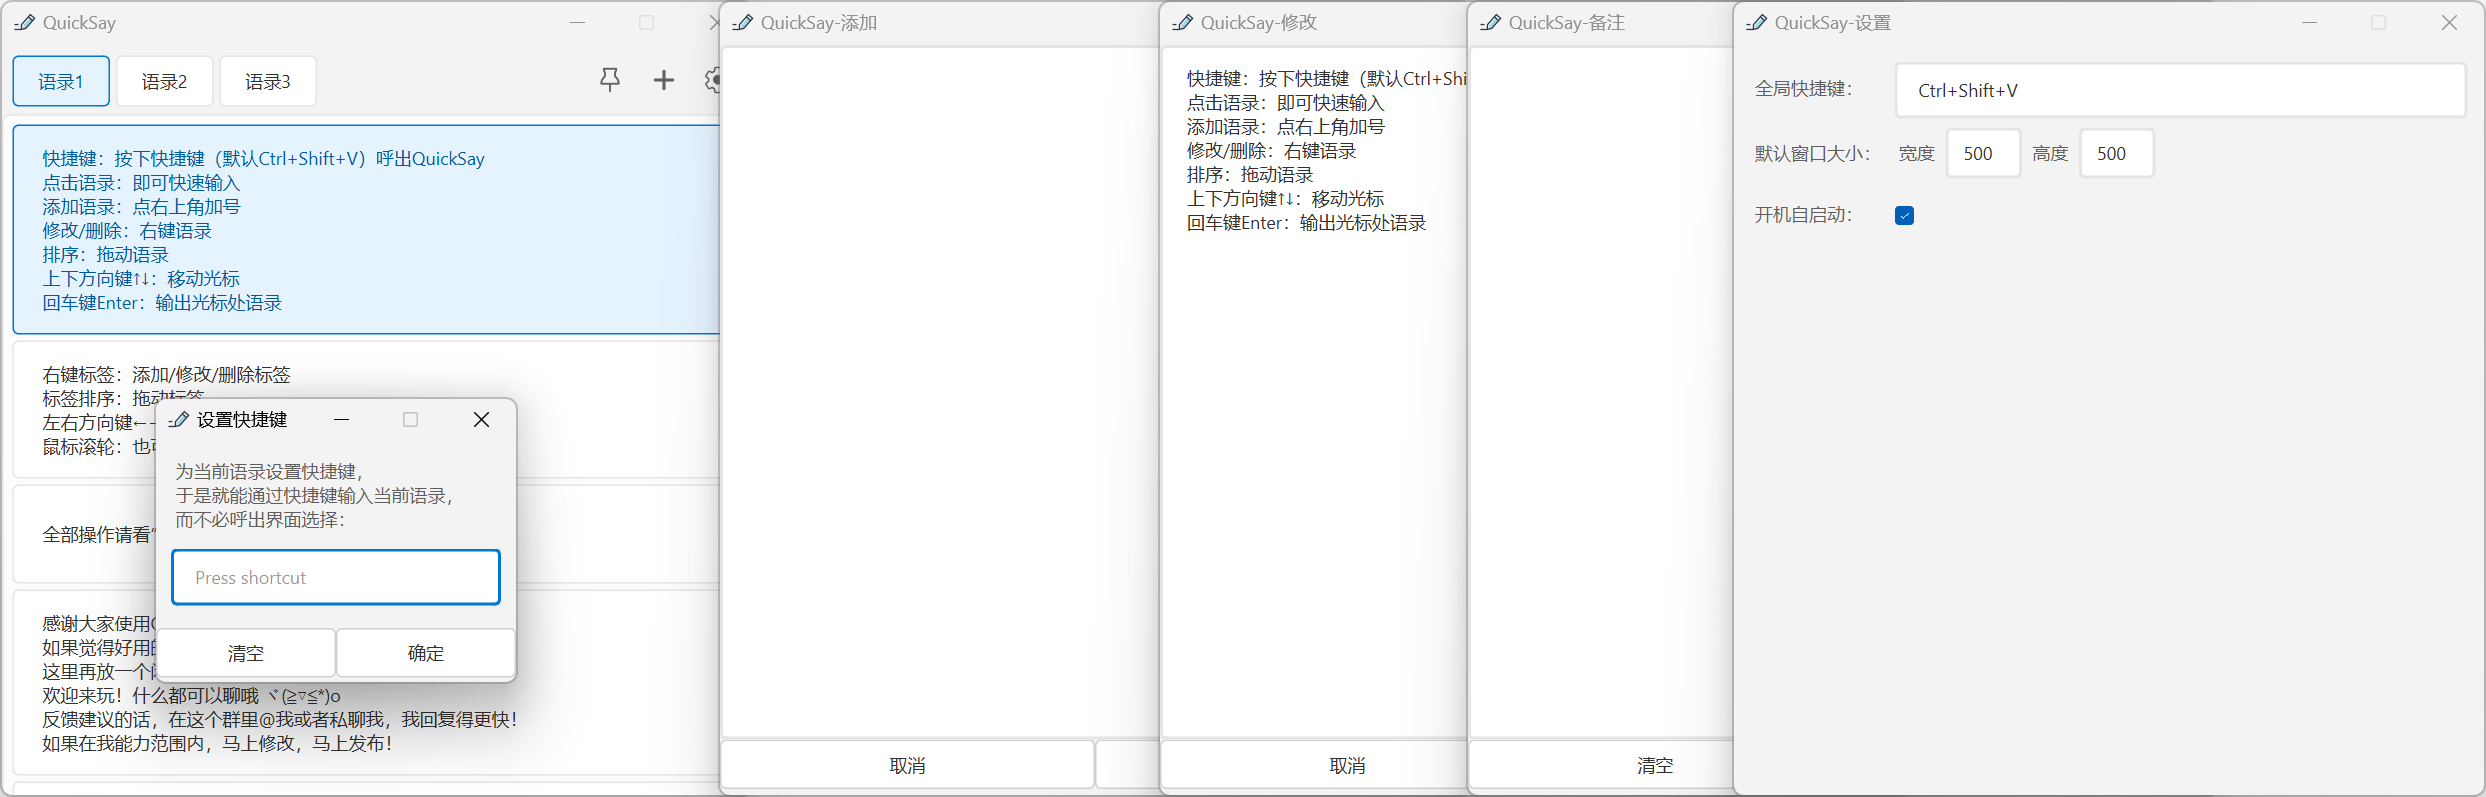
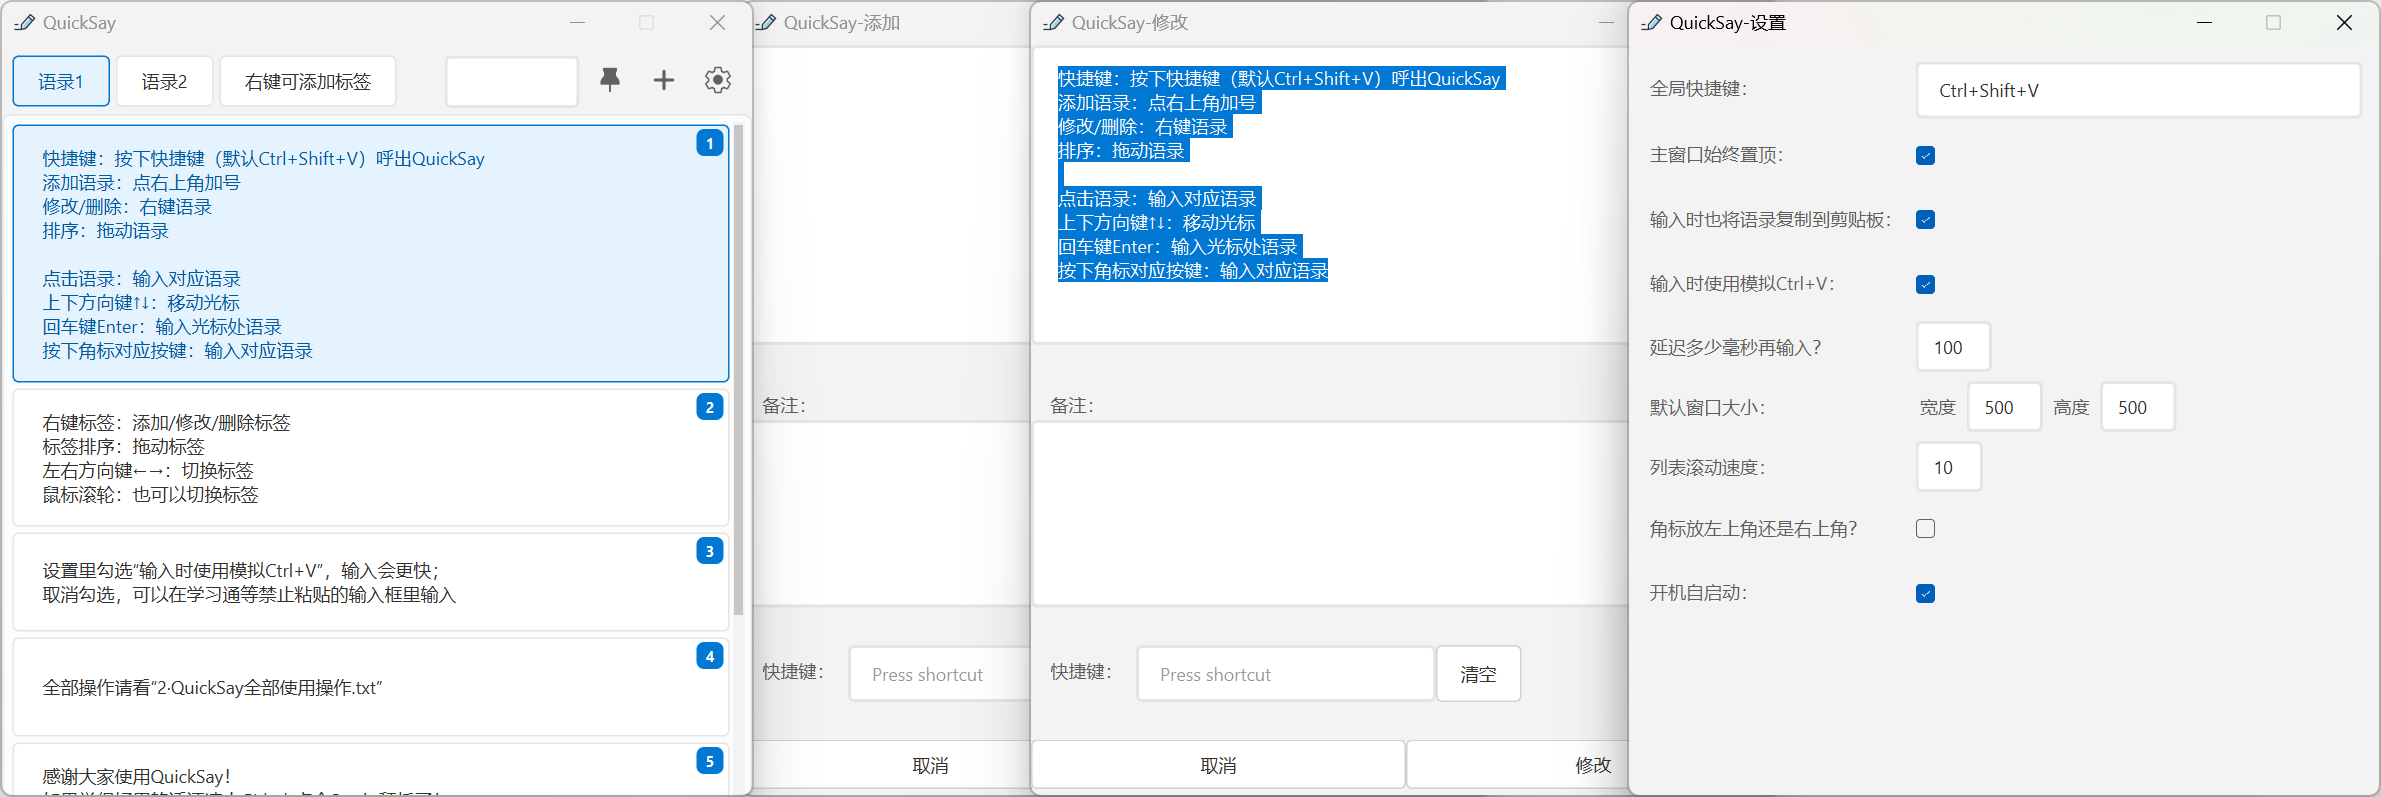
Add files via upload

diff --git a/README.md b/README.md
@@ -4,37 +4,38 @@
 
 
 ## 如何下载和安装
-（因为考虑到很多GitHub新手不会下载软件，所以就把这部分放在最上面了。~~毕竟曾经我也是新手之一呀~~）  
 #### 方法一：
-看到右边的发行版（Releases）了吗？点它→，于是进入项目发布页，再点击QuickSay_v1.3.1.7z，于是开始下载  
+看到右边的发行版（Releases）了吗？点它→，于是进入项目发布页，再点击QuickSay_v1.4.0.7z，于是开始下载  
 下载完成后，将得到的文件解压，于是得到  
 ```
 QuickSay文件夹
 1·如何安装或更新QuickSay.txt
 2·QuickSay全部使用操作.txt
 ```
-直接把 **QuickSay文件夹** 放到随便什么路径下（有中文空格都行）（但是不要放到Program Files之类的文件夹里面。这种文件夹好麻烦的改个json文件都需要管理员权限），然后双击打开里面的exe文件就可以正常运行软件了。  
-那两个txt文件懒得看的话可以直接删除，没关系的（虽然还是建议看一下...）  
+直接把 **QuickSay文件夹** 放到随便什么文件夹里，然后双击QuickSay.exe就行了。  
+文件夹的话有中文空格都行，但是不要放到Program Files之类的文件夹里。这种文件夹好麻烦的改个文件都需要管理员权限...  
+两个txt文件懒得看的话可以直接删除。  
 #### 方法二：
-直接点进这个蓝奏云链接：https://wwlt.lanzoum.com/b014wmlo5g 密码:star  
-然后点击QuickSay_v1.3.1.7z，再点下载按钮，于是开始下载  
+点进这个蓝奏云链接：https://wwlt.lanzoum.com/b014wmlo5g 密码:star  
+然后点击QuickSay_v1.4.0.7z，再点下载按钮，于是开始下载  
 接下来的步骤同上  
 
 
 ## 如何更新
-直接把 QuickSay文件夹 **替换**掉 电脑里原有的QuickSay文件夹 就行了。  
+直接用 QuickSay文件夹 **替换**掉 电脑里原有的QuickSay文件夹 就行了。  
 
 
-## 软件功能
-您可以在QuickSay里添加语录，并在需要用到时按下快捷键呼出QuickSay，点击语录，于是快速输入( •̀ ω •́ )✧  
+## QuickSay是用来干什么的？
+不知道你会不会把常用语录保存在一个txt文件里，并在需要用到时打开这个txt文件复制粘贴。  
+那么你就可以把常用语录保存在这个软件里，并使用标签分类。  
+输入语录可以按下快捷键呼出QuickSay后，通过鼠标点击、回车、角标对应按键输入；或者自定义语录快捷键输入。  
 
 QuickSay的优势：  
-- UI好看。简洁、现代、美观  
-- 功能全面，日常使用需求基本都能满足，使用体验好  
-- 支持Emoji、颜文字等文本的存储与使用  
-- 免费、开源、无广、无需登录、无需联网，未来我也不打算加上这些内容  
-- 开发者持续维护，愿意为它付出时间。再加上我比较细心，所以我可以很自信地说bug基本没有  
-- 不知道为什么网络上都找不到好用免费现代美观的电脑快捷语录软件，所以要是有人想找个电脑快捷语录的话那基本都会找到我这里来。我靠这不就等于垄断了吗？我真幸运  
+- 可以在学习通等禁止粘贴的输入框里输入！！  
+- UI好看。简洁、现代、美观、高效  
+- 功能全面，比如支持按下角标对应按键输入、自定义语录快捷键输入、连续输入、搜索框搜索、备注等功能  
+- 免费、开源、无广、无需联网，未来我也不打算加上这些内容  
+- 开发者持续维护，愿意为它付出时间。再加上我比较细心，所以我可以很自信地说代码质量非常高，bug基本没有  
 - 因为是用Qt开发的，所以体积小（15MB）、运行快  
 - 适合Qt新手自学。代码注释真的超级详细，代码内容也比较简单，完全不用像学算法那样理解半天都理解不了这段代码是干什么的。如果把这些代码给曾经的我看的话，估计用不了一周我就能自学成才，并且发布软件了  
 
@@ -44,35 +45,34 @@ QuickSay的优势：
 
 ## 基本使用
 快捷键：按下快捷键（默认Ctrl+Shift+V）呼出QuickSay  
-点击语录：即可快速输入  
 添加语录：点右上角加号  
 修改/删除：右键语录  
 排序：拖动语录  
+
+点击语录：输入对应语录  
 上下方向键↑↓：移动光标  
-回车键Enter：输出光标处语录  
+回车键Enter：输入光标处语录  
+按下角标对应按键：输入对应语录  
 
 右键标签：添加/修改/删除标签  
 标签排序：拖动标签  
 左右方向键←→：切换标签  
 鼠标滚轮：也可以切换标签  
 
-这里再放几个高级使用：  
-右键语录-快捷键：设置语录快捷键，于是就能通过快捷键输入当前语录，而不必呼出界面选择  
-右键语录-备注：给当前语录备注  
-图钉按钮：开启/关闭窗口置顶、失去焦点不关闭  
-
 全部操作请看“2·QuickSay全部使用操作.txt”  
 
 
 ## 常见使用问题
-- 不要直接在解压软件里运行QuickSay.exe呀...也就是说不要先运行QuickSay.exe，然后把整个文件夹复制到其他地方，再双击运行QuickSay.exe，于是你电脑里就运行了两个QuickSay  
-  × 解决方法：确保你电脑里只有一个QuickSay.exe。然后方法一是右键托盘图标把两个QuickSay都退出，再打开唯一的那个QuickSay.exe；方法二是重启。重启能完全解决这个问题。遇事不决重启解决  
-- 如果你在添加/修改/删除语录，或者改变语录顺序后，退出并重新打开QuickSay.exe，发现语录根本没被修改，那这必然是因为你把QuickSay安装在Program Files之类的文件夹里面  
-  × 解决方法：把QuickSay安装在其他文件夹里  
-- 这是用来快捷输入的软件呀（笑哭），别没有把鼠标光标放到可以输入文字的地方就呼出、点击语录，于是输入失败，于是就来找我反馈了  
-- 不钉住窗口时，把焦点放到可以输入文字的地方后，点击任务栏的QuickSay图标让它置顶，此时你的焦点就不在那个可以输入文字的地方了，也就是说此时你点击语录会输入失败。唔这个问题我在之后的版本试着解决一下  
+- 不要直接在解压软件里运行QuickSay.exe  
+- 不要先运行QuickSay.exe，同时把整个文件夹复制到其他地方，再运行QuickSay.exe。否则你电脑里就运行了两个QuickSay.exe  
+× 解决方法：确保你电脑里只有一个QuickSay.exe。然后方法一是右键托盘把两个QuickSay都退出，再打开唯一的那个QuickSay.exe；方法二是重启。重启能完全解决这个问题。遇事不决重启解决  
+- 修改语录或设置后，退出重进QuickSay，发现语录根本没被修改，那必然是因为你把QuickSay安装在Program Files之类的文件夹里  
+× 解决方法：把QuickSay安装在其他文件夹里  
 - 显示有个bug，比如输入“ᐠ( ᑒ )ᐟ”，那么显示会出问题。但是输出的话还是能正常输出的。等我了解一下这个bug的原因哈，如果在我能力范围内，那么这也是要修复的  
-- 嘶，发现有一个问题就是如果电脑后台开着吃性能的应用，比如原神，于是你电脑就一卡一卡了，于是QuickSay就不能在微信电脑版的输入框里输入了，因为延时50毫秒完全不够，150毫秒都不够。所以此时只能麻烦大家手动敲一个Ctrl+V了  
+- QuickSay会在以下情况输入失败：  
+1.大部分游戏内输入框  
+2.当电脑开着吃性能的应用，卡顿十分明显时，微信输入框  
+× 解决方法：勾选设置“输入时也将语录复制到剪贴板”，自己手动敲一个Ctrl+V  
 
 
 ## 许可证
@@ -80,31 +80,26 @@ QuickSay的优势：
 
 
 ## 如何下载代码并使用
-1. 下载代码应该不用我多说。毕竟按钮在最上面最明显的地方。没错就是那个绿色按钮  
+1. 下载代码应该不用我多说。按钮就是最上面最明显的那个绿色按钮  
 2. 然后你需要去下载个QT。教程推荐这篇文章：https://blog.csdn.net/qq_62888264/article/details/132645054  
-3. 打开Qt Creator，按教程说的新建一个项目，名称写“QuickSay”，然后无脑下一步就行了 （~~虽然名称可以随便写，但解释起来好麻烦所以还是算了吧~~）  
-4. 在文件资源管理器（就是此电脑）里找到这个新建的项目，把 第1步下载下来的全部文件和文件夹 都直接移动到这个项目文件夹里，选“替换目标中的文件” （~~应该不会有人直接把压缩包移动到项目文件夹里吧...~~）  
+3. 打开Qt Creator，按教程说的新建一个项目，名称写“QuickSay”，然后无脑下一步就行了  
+4. 在文件资源管理器（就是此电脑）里找到这个新建的项目，把 第1步下载下来的全部文件和文件夹 都直接移动到这个项目文件夹里，选“替换目标中的文件”  
 5. 回到Qt Creator，点击左侧的“项目”，关闭“Shadow build：”这个选项  
-6. 于是就可以运行了！点击左侧的那个绿色三角形，你会发现弹出了个和QuickSay发行版一模一样的窗口。那么恭喜你！此时你就可以正常运行代码了。**与我一同，成为开发者吧！**  
+6. 于是就可以运行了！点击左侧的那个绿色三角形，你会发现弹出了个和QuickSay软件一模一样的窗口。那么恭喜你！此时你就可以正常运行代码了。**与我一同，成为开发者吧！**  
 ##### 说几个容易踩的坑：
 - 如果运行出来一个窗口，但是窗口右上角没有齿轮图标之类的，那就是第4步没有把icons文件夹移动进去  
 - 如果运行时报了一堆错，那大概率就是第5步没有关闭“Shadow build：”这个选项  
-#### 这里再放一个悬赏委托◥▇▇▆▆▆▅▆◙▬▬o
-**「 做完上面说的7个步骤，然后告诉作者能否正常运行代码。 」**  
-###### 赏金：1.00元，以及作者大大的感谢！
 
 
 ## 目前想到的之后版本要更新的内容
-- “常见使用问题”里面提到的那两个bug  
+- “常见使用问题”里面提到的那个bug  
 - 问下你们安装软件会不会有一定要安装在Program Files的强迫症呀？这种文件夹太麻烦了改个json文件都需要管理员权限。我看看能不能找到什么替代方法哈  
-- 还有就是UI。如果你们觉得UI有什么不合适的地方欢迎来提建议。虽然我是觉得UI设置成这样已经很好看了  
-- 主窗口上面一栏添加一个输入框，于是通过模糊匹配可以实现搜索语录的功能。【下版本更新这个！】  
+- 还有就是UI。如果你们觉得UI有什么不合适的地方欢迎来提建议。虽然我是觉得UI已经很好看了  
 
 
 ## 目前不打算更新的内容
 - 自动更新  
-- 账号登录  
-- 加上一个开关，输入语录后可以不关闭窗口。这个不打算实现是因为QuickSay输入原理是呼出窗口并关闭，焦点就会回到之前的位置，于是在焦点处输入就可以了。但如果不关闭窗口的话焦点就回不去了  
+- 账号登录、同步  
 - 可以同时打开多个添加窗口、多个修改窗口、多个语录快捷键窗口。诶问下这个功能你们想要吗？想要的话我尽力实现，但不知道能不能实现出来...总感觉一不小心就会内存泄漏什么的...有时候真不是程序员懒，是实现这个东西太麻烦  
 - 快捷键输入框允许输入多个快捷键的组合，但就算这么输入，也应用不了。所以我是通过把它判定为不合规快捷键的方式来阻止用户这么输入的。但其实还有个思路就是检测到用户输入主键后立刻清除快捷键输入框的焦点。但目前我能力不够...不知道未来的我能不能做到  
 
